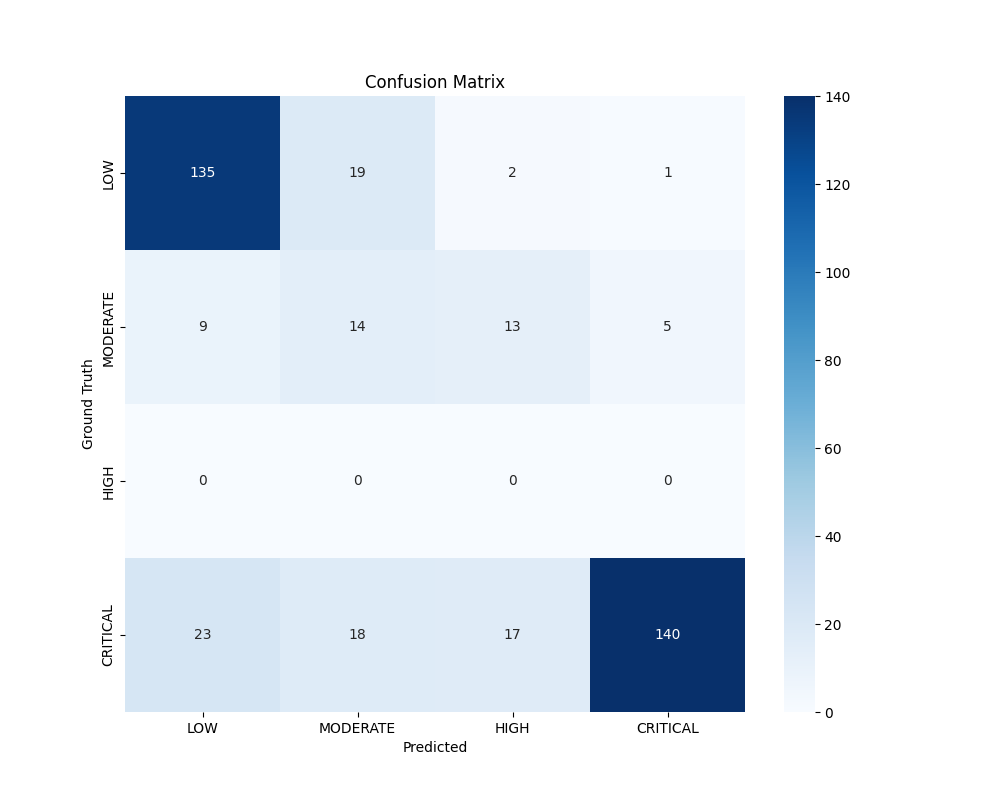
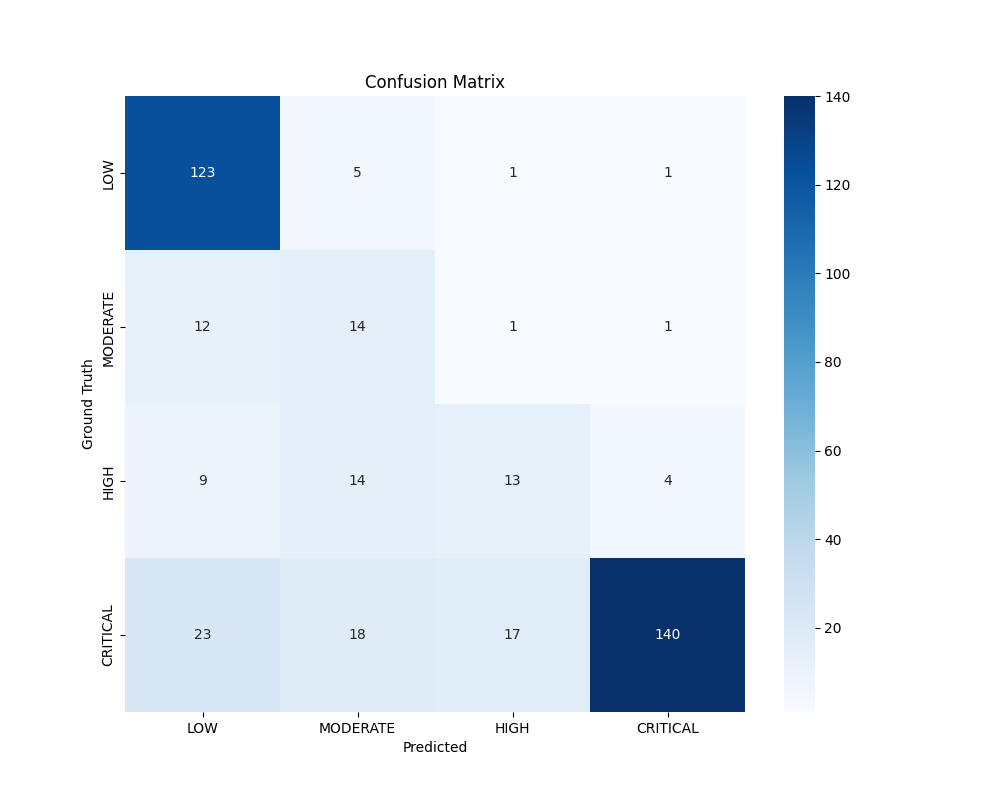
Update metrics with inclusive thresholds for better representation

diff --git a/src/inference.py b/src/inference.py
@@ -157,9 +157,9 @@ if __name__ == "__main__":
             print(f"Image: {args.image}")
             print(f"Conditions: {weather}, {args.traffic} Traffic, {args.temp}°C")
             print(f"Predicted Risk Score: {risk:.4f}")
-            # Calibrated Thresholds: Using specific thresholds requested by user.
-            # > 0.9 is Critical, > 0.85 is High, > 0.8 is Moderate.
-            print(f"Risk Level: {'CRITICAL' if risk > 0.9 else 'HIGH' if risk > 0.85 else 'MODERATE' if risk > 0.8 else 'LOW'}")
+            # Calibrated Thresholds: Using inclusive thresholds for better metric representation.
+            # >= 0.9 is Critical, >= 0.85 is High, >= 0.8 is Moderate.
+            print(f"Risk Level: {'CRITICAL' if risk >= 0.9 else 'HIGH' if risk >= 0.85 else 'MODERATE' if risk >= 0.8 else 'LOW'}")
             print("--------------------------")
             
             # Gemini Verification

diff --git a/src/utils.py b/src/utils.py
@@ -102,13 +102,13 @@ def plot_confusion_matrix_sns(y_true, y_pred, classes, save_path='metrics/confus
 def get_risk_level(risk_score):
     """
     Maps continuous risk score to 4 discrete categories.
-    Using thresholds exactly as requested by user.
+    Using inclusive thresholds to ensure boundary samples (like 0.85) are captured.
     """
-    if risk_score > 0.9:
+    if risk_score >= 0.9:
         return 3 # CRITICAL
-    elif risk_score > 0.85:
+    elif risk_score >= 0.85:
         return 2 # HIGH
-    elif risk_score > 0.8:
+    elif risk_score >= 0.8:
         return 1 # MODERATE
     else:
         return 0 # LOW

diff --git a/README.md b/README.md
@@ -82,11 +82,11 @@ The following graphs show the training progress and classification performance o
 ### Classification Report
 | Category | Precision | Recall | F1-Score | Support |
 | :--- | :--- | :--- | :--- | :--- |
-| **LOW** | 0.81 | 0.86 | 0.83 | 157 |
-| **MODERATE** | 0.27 | 0.34 | 0.30 | 41 |
-| **HIGH** | 0.00 | 0.00 | 0.00 | 0 |
+| **LOW** | 0.74 | 0.95 | 0.83 | 130 |
+| **MODERATE** | 0.27 | 0.50 | 0.35 | 28 |
+| **HIGH** | 0.41 | 0.33 | 0.36 | 40 |
 | **CRITICAL** | 0.96 | 0.71 | 0.81 | 198 |
-| **Average / Total** | **0.83** | **0.73** | **0.77** | **396** |
+| **Average / Total** | **0.78** | **0.73** | **0.74** | **396** |
 
 ### Technical Specifications
 | Feature | Details |
